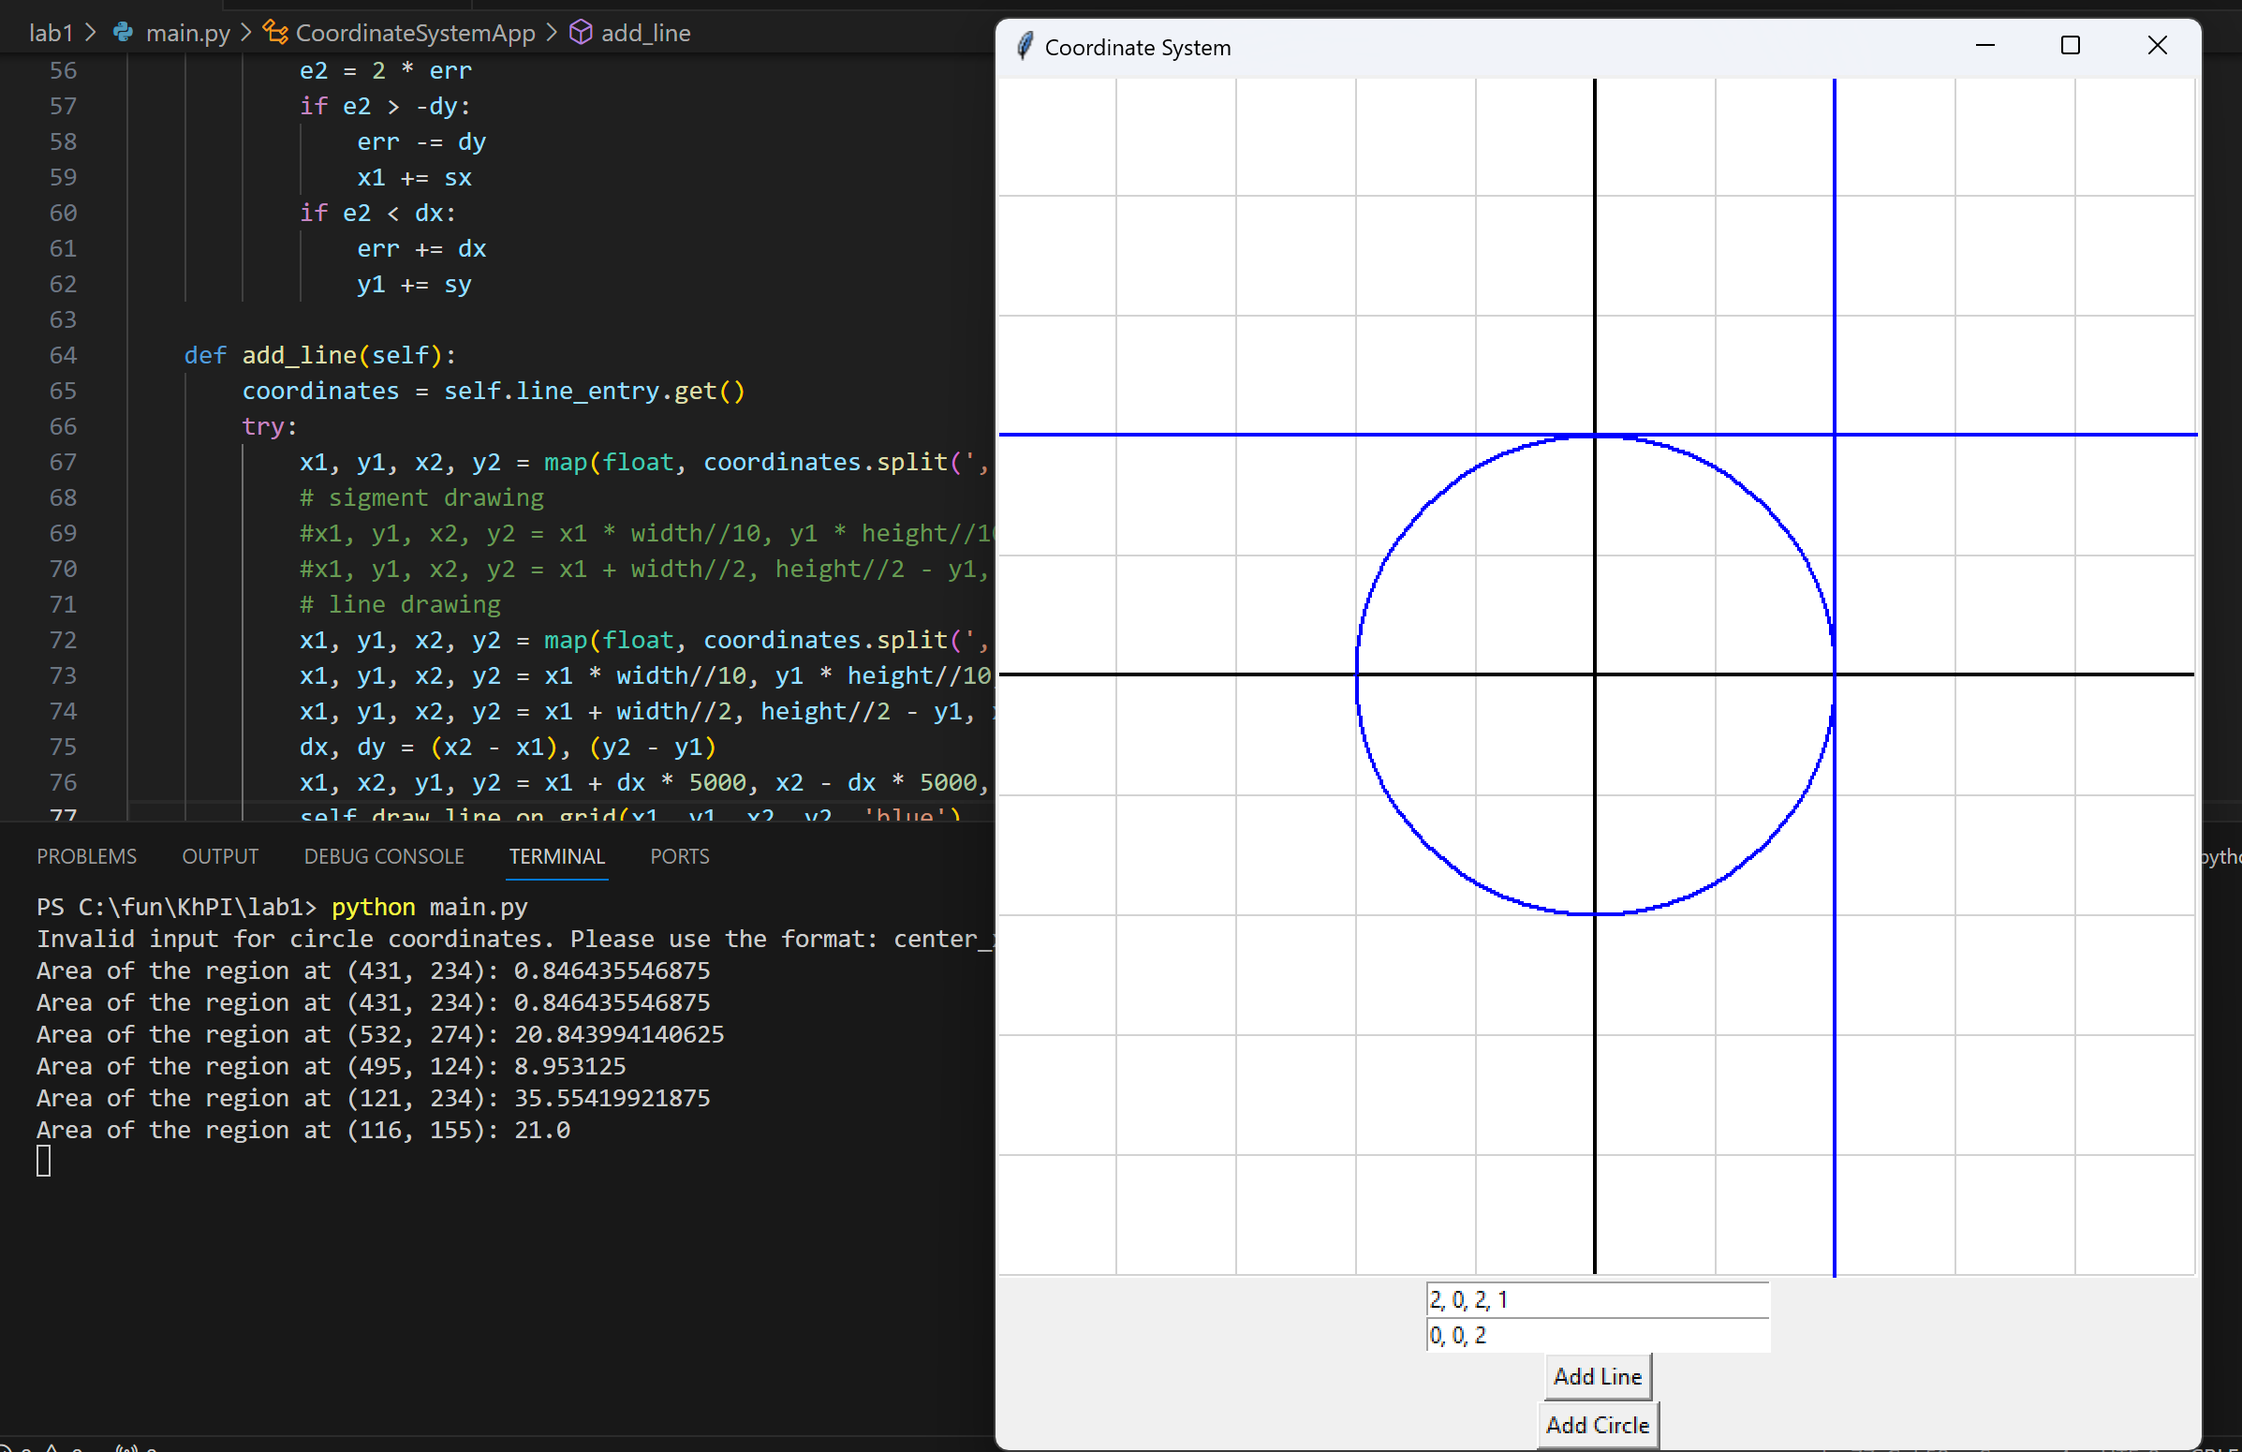
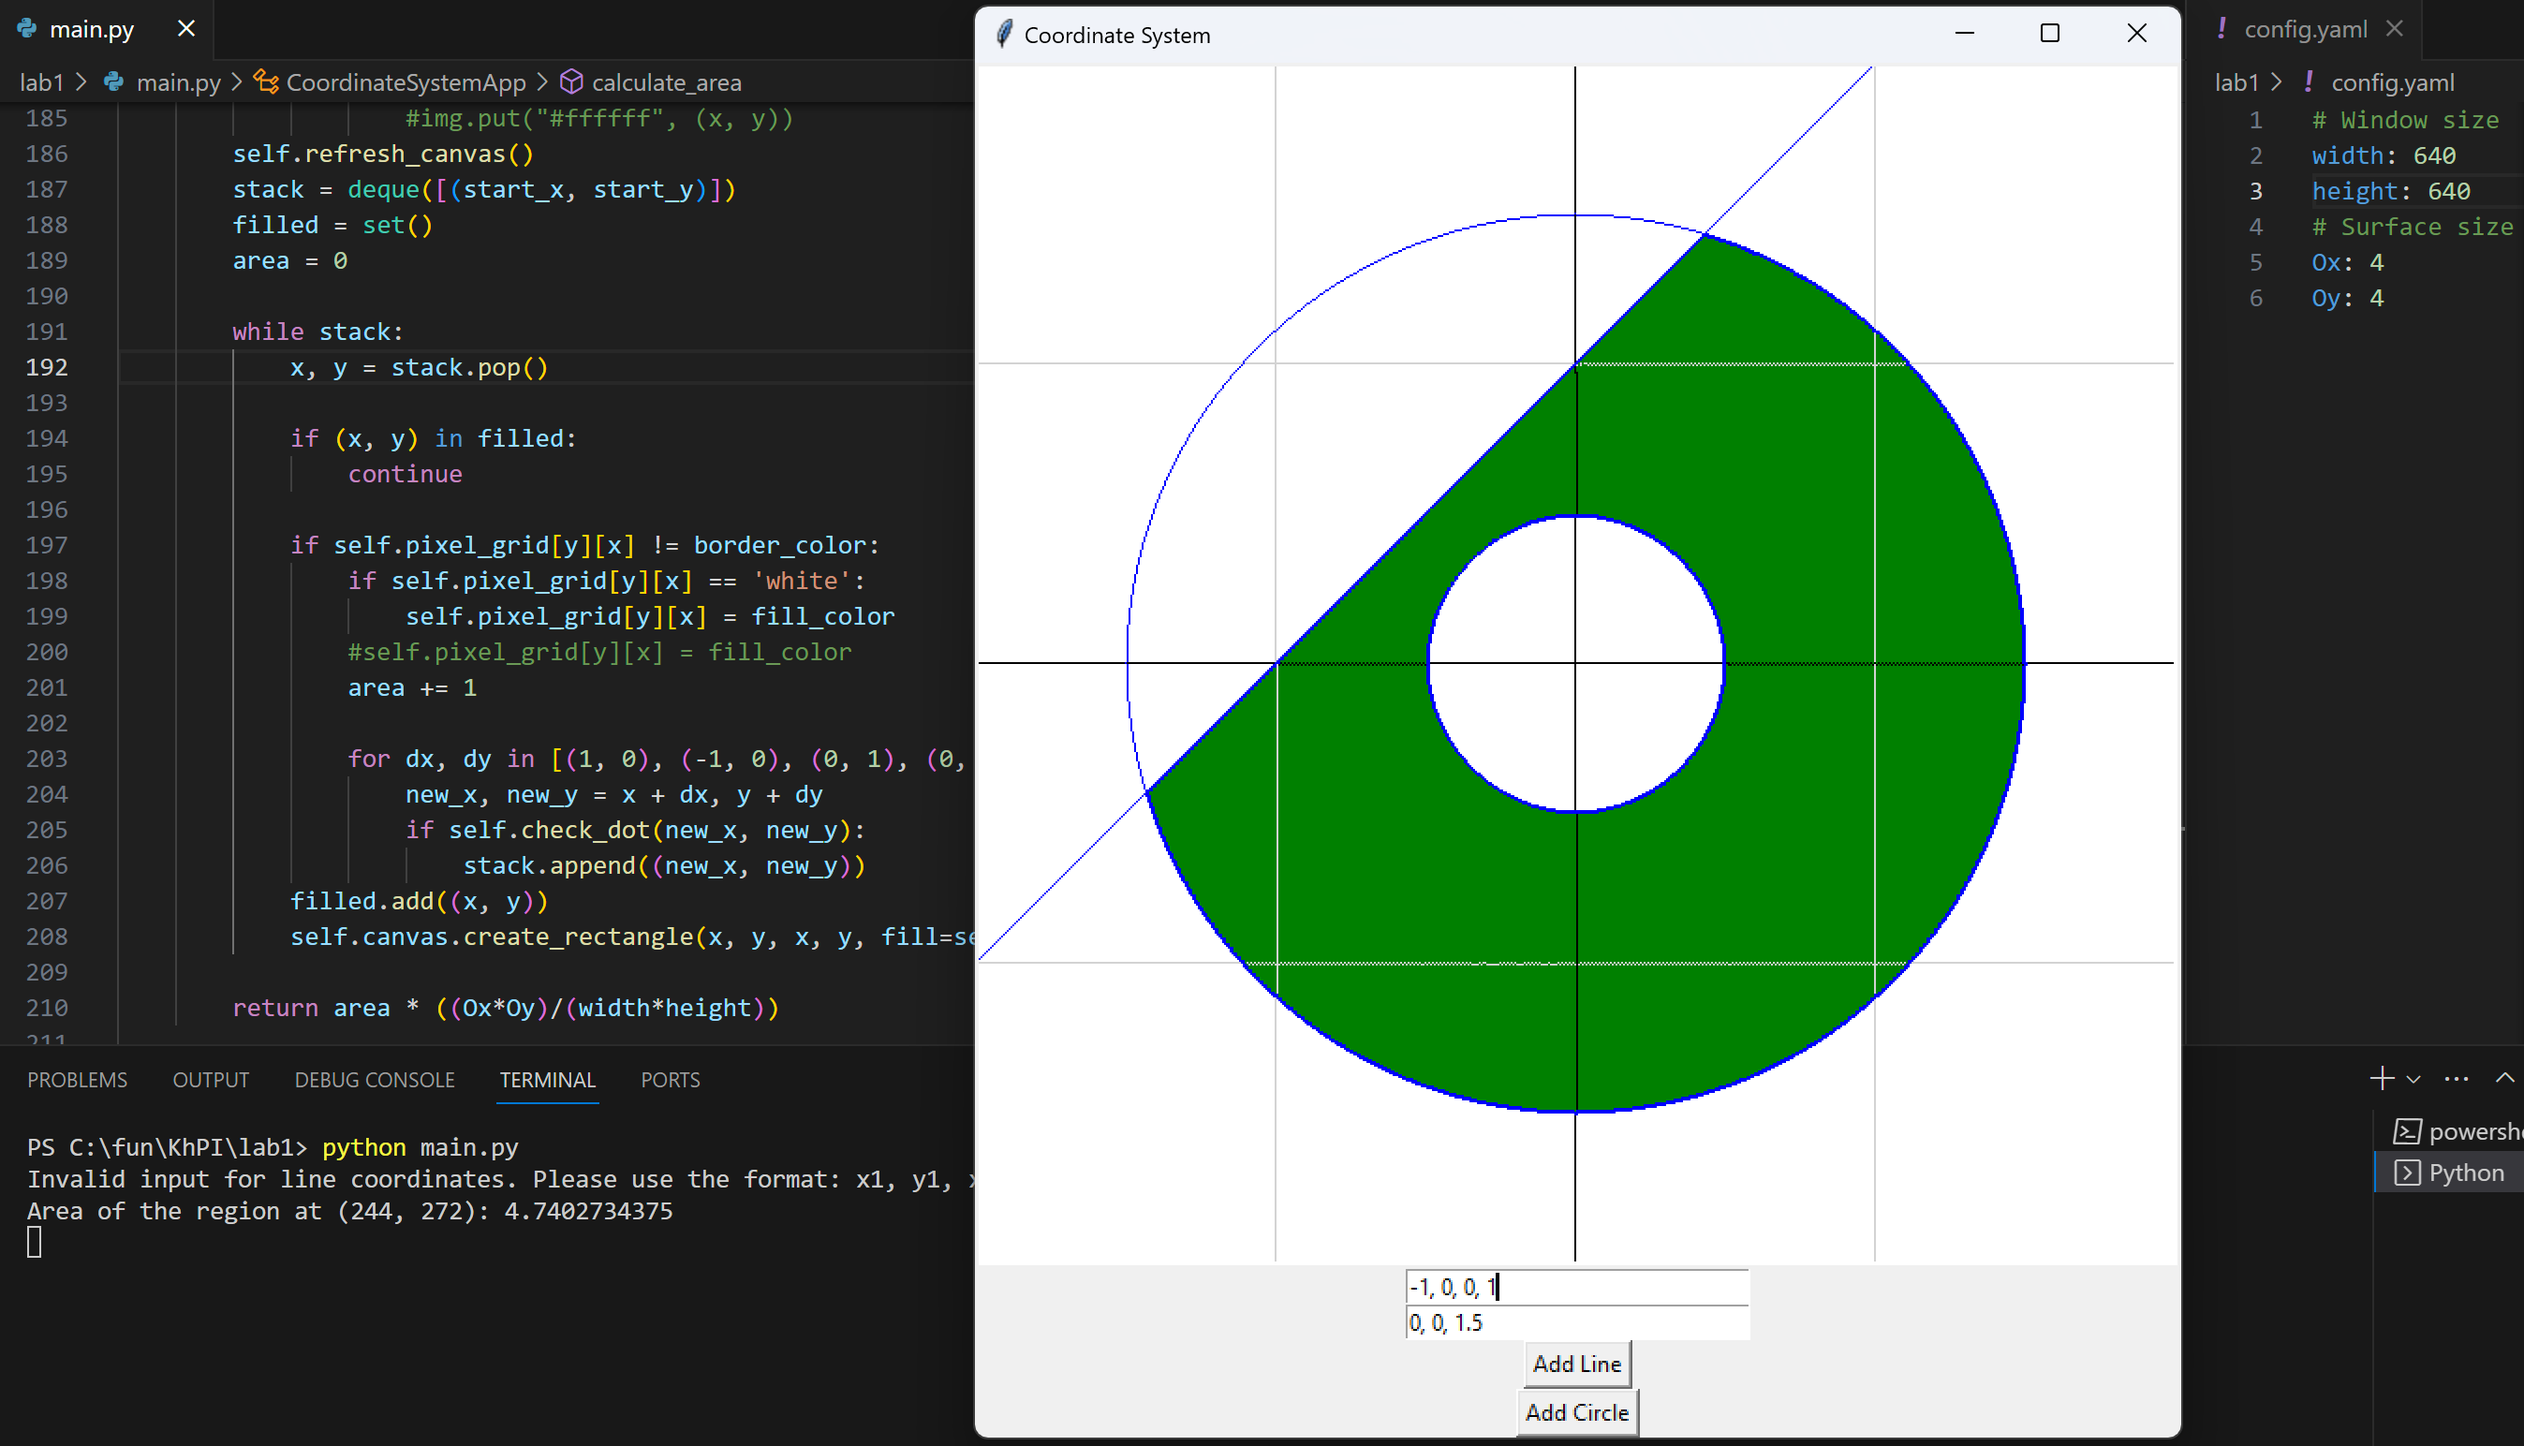
add filling

diff --git a/lab1/main.py b/lab1/main.py
@@ -1,4 +1,5 @@
 import tkinter as tk
+import numpy as np
 from collections import deque
 import yaml
 
@@ -44,13 +45,13 @@ class CoordinateSystemApp:
         self.pixel_grid = [['white' for _ in range(width*2)] for _ in range(height*2)]
 
         self.draw_coordinate_system()
-
-    ''' 
+    
+    
     def refresh_canvas(self):
         for y, row in enumerate(self.pixel_grid):
             for x, color in enumerate(row):
-                self.canvas.create_rectangle(x, y, x, y, fill=color, outline=color)
-    
+                self.canvas.create_rectangle(x, y, x, y, outline=color)
+    '''
     def draw_coordinate_system(self):
         for i in range(-Ox // 2, Ox // 2 + 1):
             for x in range(width // 2 + i * width // Ox, width // 2 + i * width // Ox + 1):
@@ -71,15 +72,28 @@ class CoordinateSystemApp:
 
         self.refresh_canvas()
     '''
-        
+
     def draw_coordinate_system(self):
         for i in range(-Ox//2, Ox//2+1):
             self.canvas.create_line(width//2 + i * width//Ox, 0, width//2 + i * width//Ox, height, fill='lightgray')
+            for x in range(width // 2 + i * width // Ox, width // 2 + i * width // Ox + 1):
+                for y in range(height):
+                    if (self.check_dot(y, x) == True):
+                        self.pixel_grid[y][x] = 'lightgray'
+
         for i in range(-Oy//2, Oy//2+1):
             self.canvas.create_line(0, height//2 + i * height//Oy, width, height//2 + i * height//Oy, fill='lightgray')
+            for y in range(height // 2 + i * height // Oy, height // 2 + i * height // Oy + 1):
+                for x in range(width):
+                    if (self.check_dot(y, x) == True):
+                        self.pixel_grid[y][x] = 'lightgray'
         
         self.canvas.create_line(0, height//2, width, height//2, fill='black', width=2)
         self.canvas.create_line(width//2, 0, width//2, height, fill='black', width=2)
+        for x in range(width):
+            self.pixel_grid[height // 2][x] = 'black'
+        for y in range(height):
+            self.pixel_grid[y][width // 2] = 'black'
 
     def check_dot(self, x, y):
         if x >= 0 and x < width and y >= 0 and y < height:
@@ -138,9 +152,8 @@ class CoordinateSystemApp:
                 (center_y - x, center_x + y),
                 (center_y - y, center_x + x)
             ]
-
             for pos_y, pos_x in positions:
-                if self.check_dot(pos_y, pos_x):
+                if self.check_dot(pos_x, pos_y):
                     self.pixel_grid[pos_y][pos_x] = color
 
             if err <= 0:
@@ -156,7 +169,7 @@ class CoordinateSystemApp:
             center_x, center_y, radius = map(float, coordinates.split(','))
             center_x, center_y, radius = center_x * width//Ox, center_y * height//Oy, radius
             center_x, center_y = center_x + width//2, height//2 - center_y
-            self.draw_circle_on_grid(int(center_x), int(center_y), int(radius), 'blue')
+            self.draw_circle_on_grid(int(center_x), int(center_y), int(radius * (width / Ox)), 'blue')
             self.canvas.create_oval(center_x - radius * (width / Ox), center_y - radius * (height / Oy),
                                     center_x + radius * (width / Ox), center_y + radius * (height / Oy),
                                     outline='blue', width=2)
@@ -164,12 +177,13 @@ class CoordinateSystemApp:
             print("Invalid input for circle coordinates. Please use the format: center_x, center_y, radius")
 
     def calculate_area(self, start_x, start_y, fill_color, border_color):
-        '''for x in range(width):
+        for x in range(width):
             for y in range(height):
                 if self.pixel_grid[y][x] == fill_color:
                     self.pixel_grid[y][x] = 'white'
-                    self.canvas.create_rectangle(x, y, x, y, fill=self.pixel_grid[y][x], outline=self.pixel_grid[y][x])'''
-        
+                    #img = tk.PhotoImage(width=width, height=height)
+                    #img.put("#ffffff", (x, y))
+        self.refresh_canvas()
         stack = deque([(start_x, start_y)])
         filled = set()
         area = 0
@@ -181,19 +195,17 @@ class CoordinateSystemApp:
                 continue
 
             if self.pixel_grid[y][x] != border_color:
-                #if self.pixel_grid[y][x] != 'lightgray' and self.pixel_grid[y][x] != 'black':
-                #    self.pixel_grid[y][x] = fill_color
-                self.pixel_grid[y][x] = fill_color
+                if self.pixel_grid[y][x] == 'white':
+                    self.pixel_grid[y][x] = fill_color
+                #self.pixel_grid[y][x] = fill_color
                 area += 1
 
                 for dx, dy in [(1, 0), (-1, 0), (0, 1), (0, -1)]:
                     new_x, new_y = x + dx, y + dy
-                    if (0 <= new_x < width and 0 <= new_y < height and 
-                    (self.pixel_grid[new_x][new_y] == 'white' or self.pixel_grid[new_x][new_y] == 'lightgray') or
-                    self.pixel_grid[new_x][new_y] == 'black'):
+                    if self.check_dot(new_x, new_y):
                         stack.append((new_x, new_y))
             filled.add((x, y))
-            #self.canvas.create_rectangle(x, y, x, y, outline=self.pixel_grid[y][x])
+            self.canvas.create_rectangle(x, y, x, y, fill=self.pixel_grid[y][x], outline=self.pixel_grid[y][x])
 
         return area * ((Ox*Oy)/(width*height))
 
